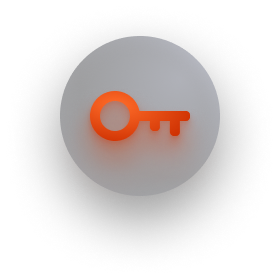
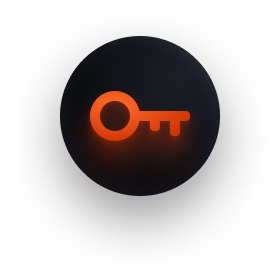
update images

Changed region(s): [[0.2, 0.1143, 0.8, 0.7143]]

diff --git a/src/app/components/passwordInput/index.tsx b/src/app/components/passwordInput/index.tsx
@@ -1,6 +1,6 @@
 import Eye from '@assets/img/createPassword/Eye.svg';
 import EyeSlash from '@assets/img/createPassword/EyeSlash.svg';
-import PasswordIcon from '@assets/img/Graphic (1).svg';
+import PasswordIcon from '@assets/img/Graphic (1).png';
 import { useEffect, useState } from 'react';
 import ActionButton from '@components/button';
 import { animated, useTransition } from '@react-spring/web';
@@ -46,7 +46,7 @@ const HeaderContainer = styled.div({
   display: 'flex',
   flexDirection: 'column',
   alignItems: 'center',
-  height: '120px'
+  height: '120px',
 });
 
 interface PasswordInputContainerProps {
@@ -67,11 +67,11 @@ const PasswordInputContainer = styled.div<PasswordInputContainerProps>((props) =
   marginTop: props.theme.spacing(8),
   marginBottom: props.theme.spacing(3),
   ':hover': {
-    border : `1px solid ${props.theme.colors.action.classic}`
+    border: `1px solid ${props.theme.colors.action.classic}`,
   },
   ':focus': {
-    border : `1px solid ${props.theme.colors.action.classic}`
-  }
+    border: `1px solid ${props.theme.colors.action.classic}`,
+  },
 }));
 
 const PasswordInputLabel = styled.h2((props) => ({
@@ -336,14 +336,14 @@ function PasswordInput(props: PasswordInputProps): JSX.Element {
       </PasswordInputContainer>
       {error && <ErrorMessage>{error}</ErrorMessage>}
       <ButtonsContainer stackButtonAlignment={stackButtonAlignment} ifError={error !== ''}>
-          <ActionButton
-            processing={loading}
-            disabled={
-              !enteredPassword || (!!checkPasswordStrength && score <= PasswordStrength.WeakScore)
-            }
-            text={t('CONTINUE_BUTTON')}
-            onPress={handleContinue}
-          />
+        <ActionButton
+          processing={loading}
+          disabled={
+            !enteredPassword || (!!checkPasswordStrength && score <= PasswordStrength.WeakScore)
+          }
+          text={t('CONTINUE_BUTTON')}
+          onPress={handleContinue}
+        />
       </ButtonsContainer>
     </Container>
   );

diff --git a/src/app/screens/coinDashboard/coinHeader.tsx b/src/app/screens/coinDashboard/coinHeader.tsx
@@ -434,14 +434,14 @@ export default function CoinHeader(props: CoinBalanceProps) {
               />
             </RecieveButtonContainer>
           )}
-          {coin === 'BTC' || coin === 'STX' ? (
+          {/* {coin === 'BTC' || coin === 'STX' ? (
             <SmallActionButton
               isOpaque
               isRound
               src={SwapCoin}
               onPress={() => console.log('transfer')}
             />
-          ) : null}
+          ) : null} */}
         </RowButtonContainer>
       </BalanceInfoContainer>
       {renderStackingBalances()}
